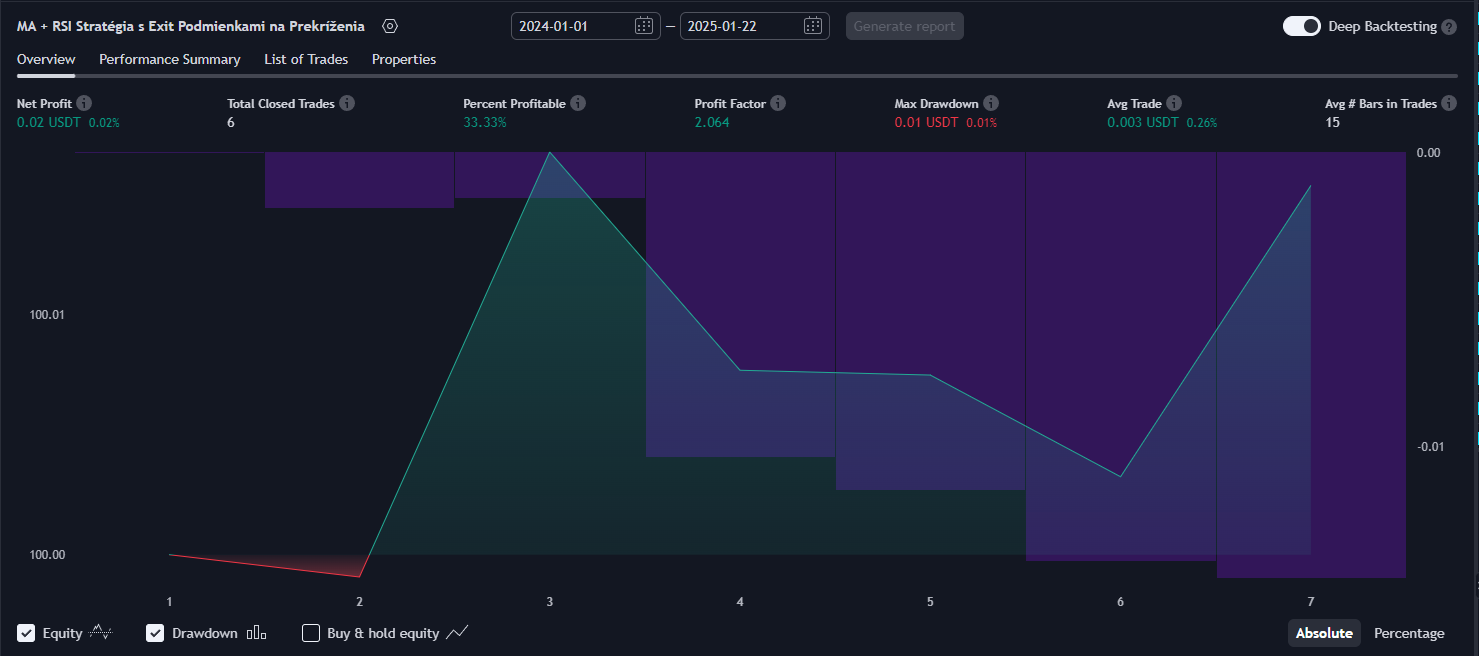
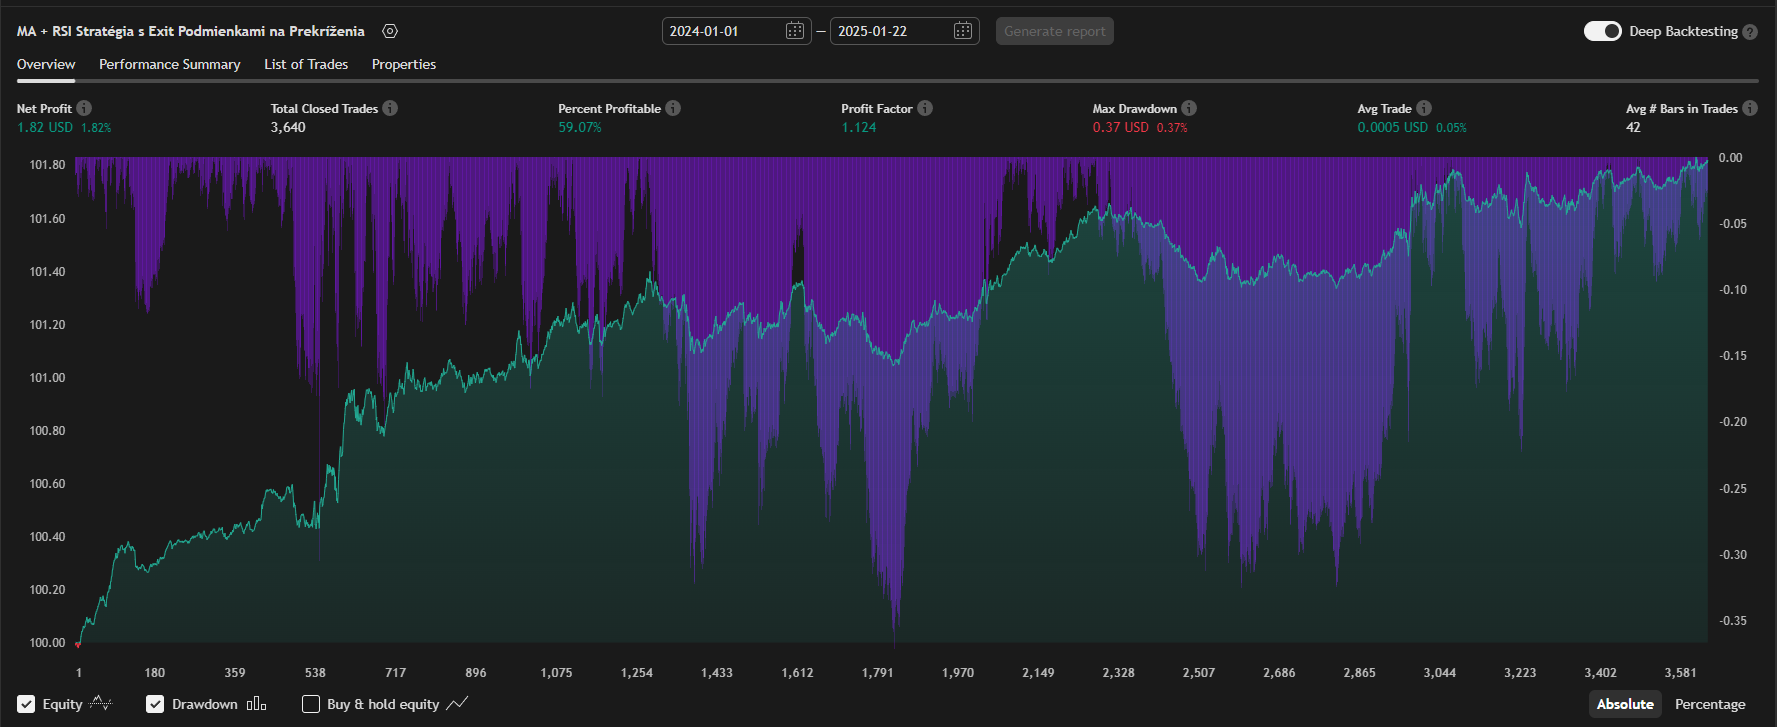
update

diff --git a/index.html b/index.html
@@ -810,16 +810,16 @@
 
                 <div class="card" onclick="openModal(this)">
                     <img src="MA 50 + MA 200 + RSI 14 Strategy 1000PEPEUSDT (1 year).png" alt="MA 50 + MA 200 + RSI 14 Strategy">
-                    <h3 class="status-break-even">MA 50 + MA 200 + RSI 14 Strategy</h3>
+                    <h3 class="status-profitable">MA 50 + MA 200 + RSI 14 Strategy</h3>
                     <p><strong>Tested on:</strong> 1000PEPEUSDT</p>
-                    <p><strong>Status:</strong> Break-even</p>
+                    <p><strong>Status:</strong> Profitable</p>
                     <p><strong>On Bybit:</strong> YES</p>
                     <p><strong>Indicator(s):</strong> MA 50 + MA 200 + RSI 14</p>
                     <p><strong>Type of strategy:</strong> Trend-following Strategy</p>
                     <p><strong>Trading Time Frame:</strong> 1M</p>
-                    <p><strong>Number of Trades:</strong> 6 (1 year)</p>
+                    <p><strong>Number of Trades:</strong> 3640 (1 year)</p>
                     <p><strong>TP/SL:</strong> Crossover</p>
-                    <p><strong>Strategy success (%):</strong> 33.33%</p>
+                    <p><strong>Strategy success (%):</strong> 59.07%</p>
                     <p><strong>Inspired by:</strong> SELF MADE</p>
                 </div>
 
